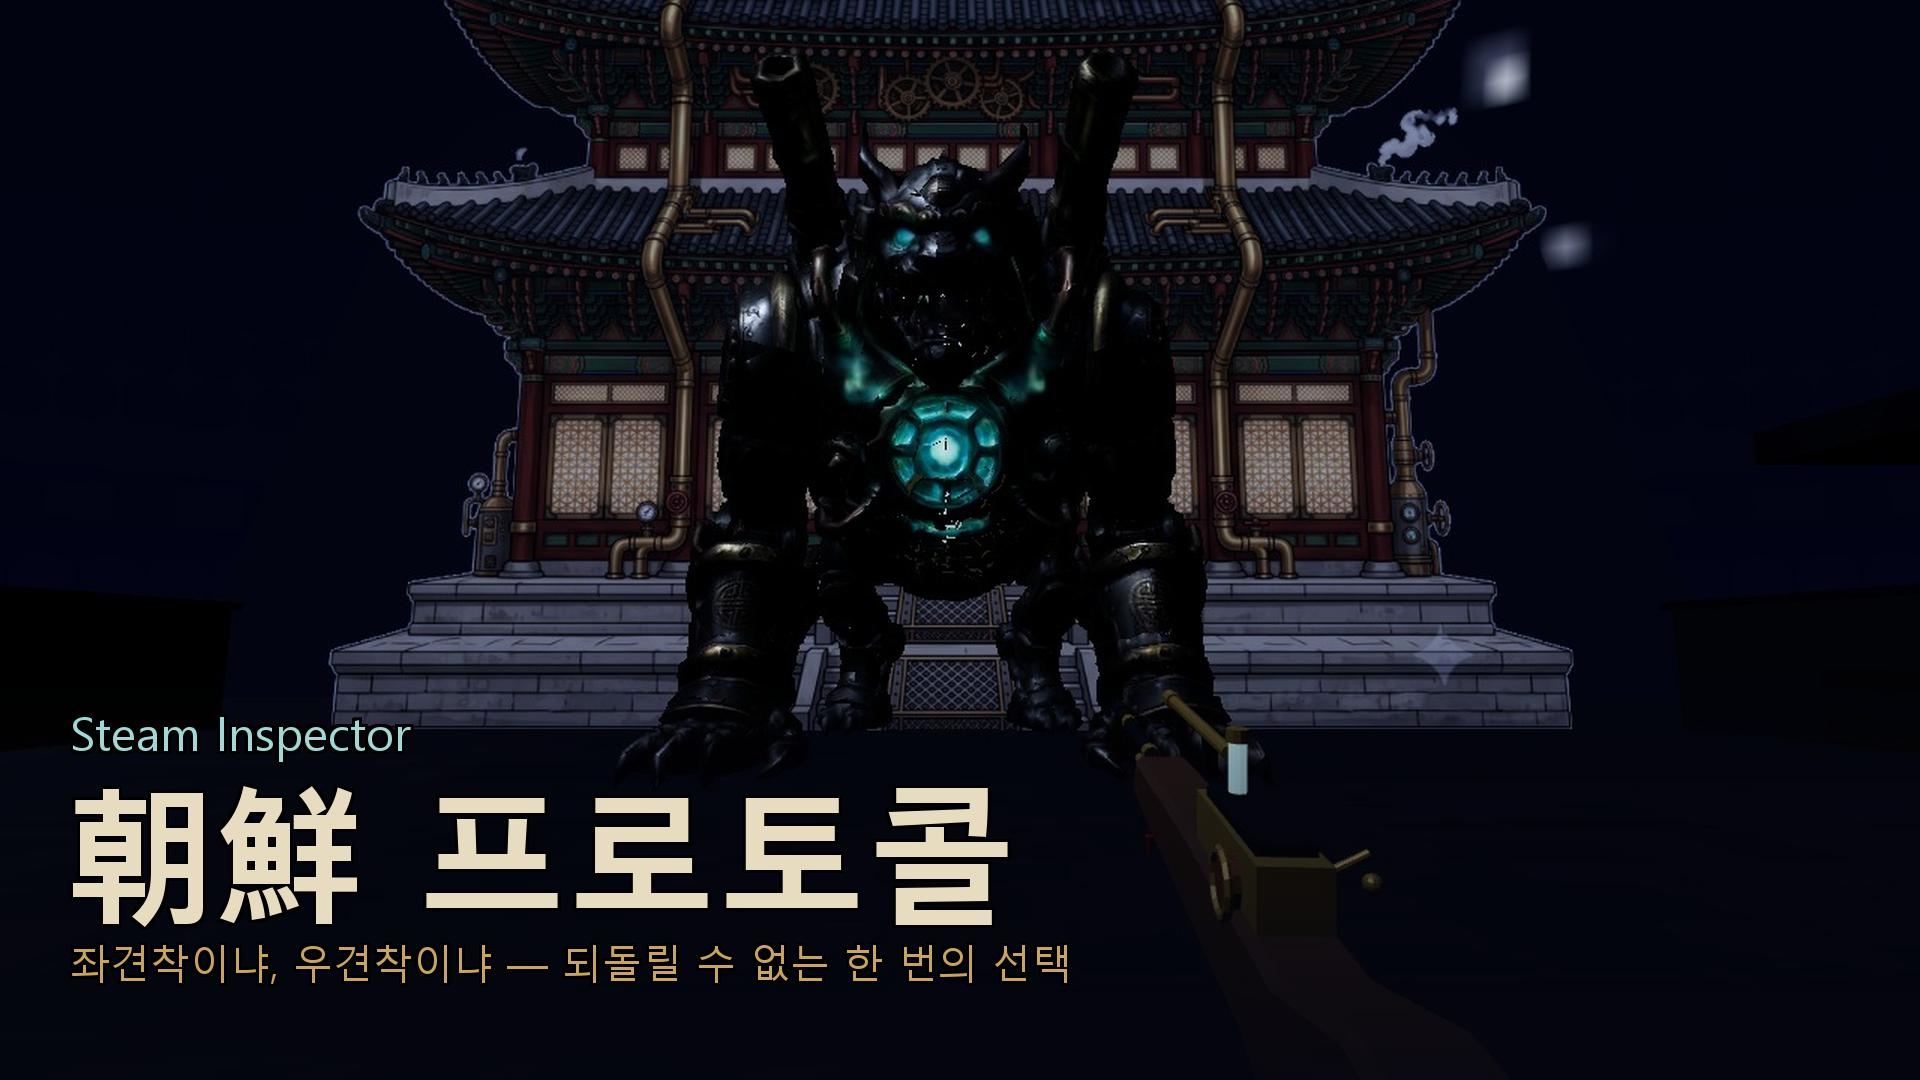
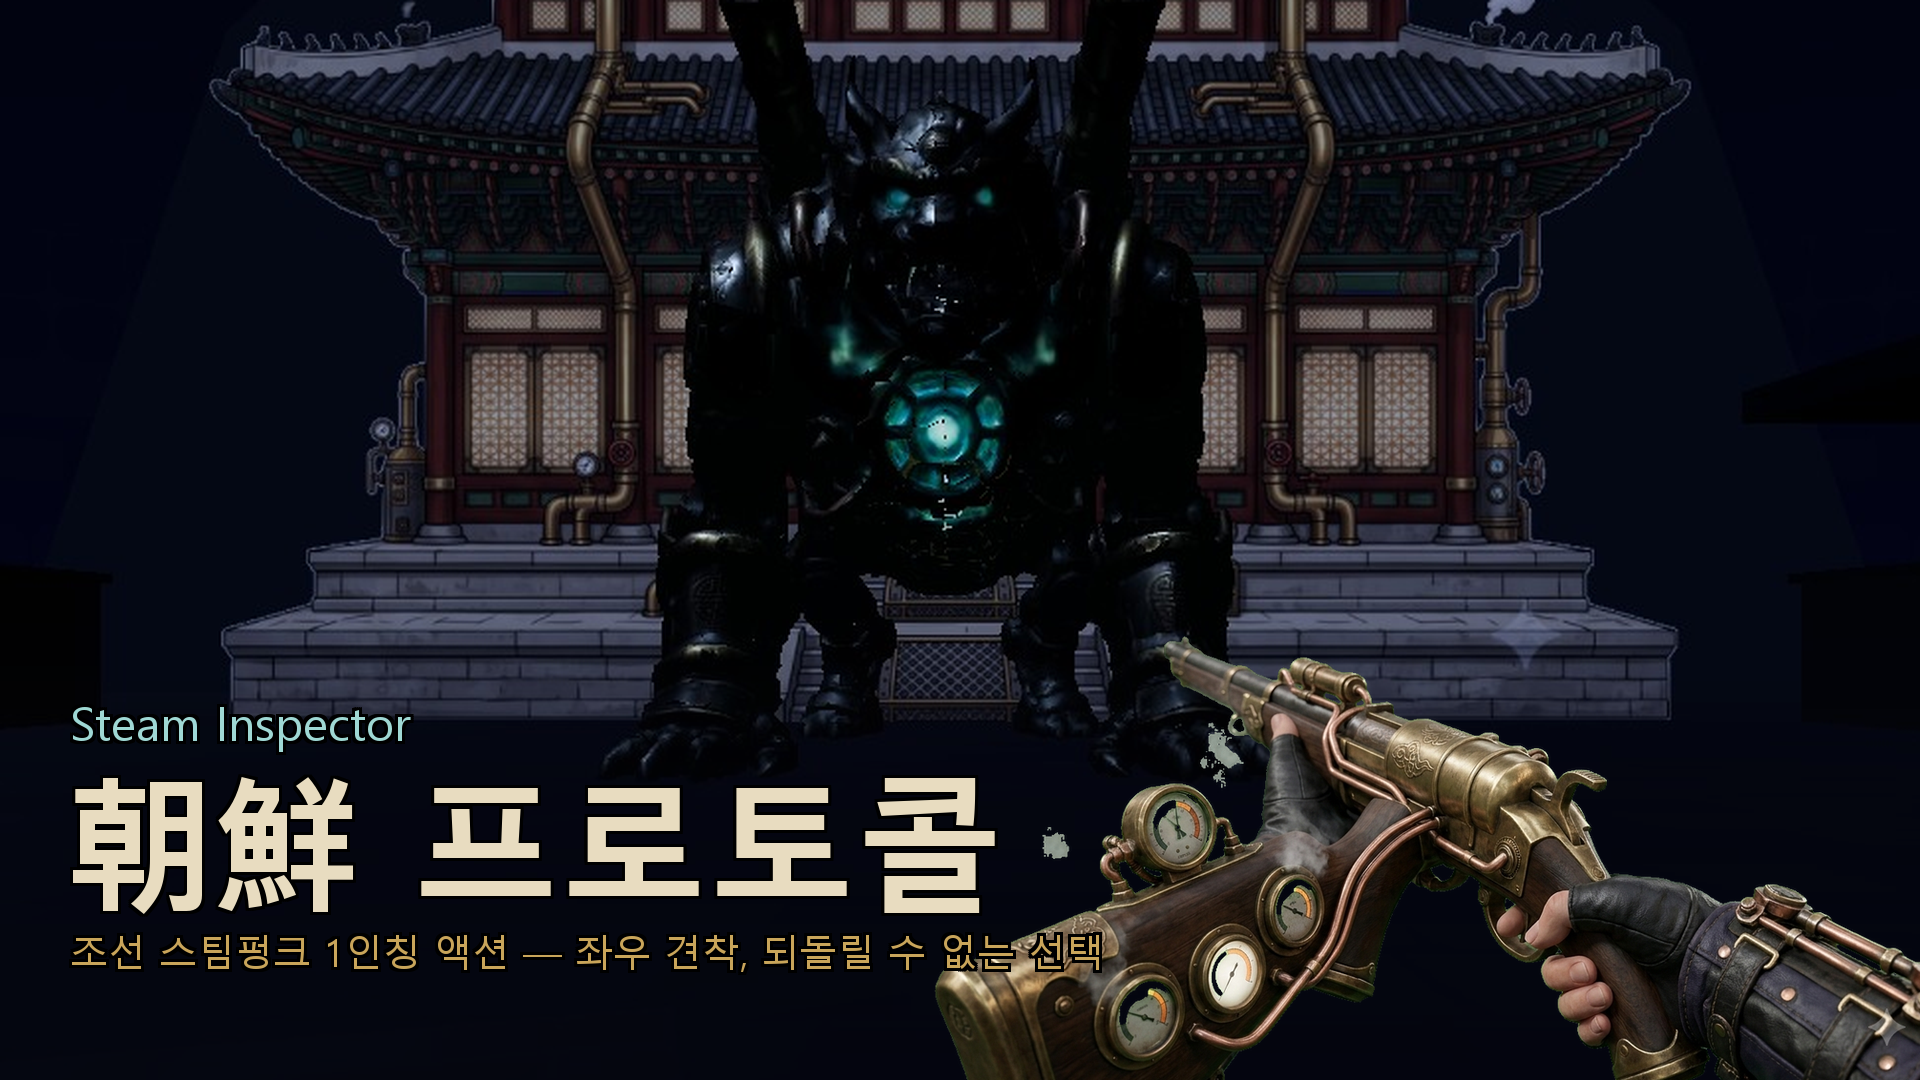
feat: viewmodel look-sway lag (spring-damper, opposite to camera turn); new FPS thumbnail (gobungi + sprite rifle); STEP harness completeness

diff --git a/src/vmsprite.js b/src/vmsprite.js
@@ -18,6 +18,7 @@ let bobPhase = 0;
 let kickY = 0, kickR = 0;
 let override = null;         // { sprite, until, anim } — 단도/수류탄/마패 일시 연출
 let adsT = 0;
+let swayX = 0, swayY = 0, swayVX = 0, swayVY = 0; // 룩-스웨이: 시선 반대로 끌리다 스프링 복귀
 
 export function initVmSprite() {
   wrap = document.getElementById('vmwrap');
@@ -53,6 +54,15 @@ export function updateVmSprite(dt) {
   // ADS 보간
   adsT += ((state.ads ? 1 : 0) - adsT) * Math.min(1, dts * 9);
 
+  // 룩-스웨이 (총이 시선을 한 박자 늦게 따라오는 관성) — 스프링-댐퍼
+  const ldx = state._lookDX || 0, ldy = state._lookDY || 0;
+  state._lookDX = 0; state._lookDY = 0; // 소비 후 리셋 (일시정지 중 잔류 방지)
+  swayVX += (-ldx * 2.2 - swayX * 90 - swayVX * 14) * dts;
+  swayVY += (-ldy * 1.8 - swayY * 90 - swayVY * 14) * dts;
+  swayX = Math.max(-46, Math.min(46, swayX + swayVX * dts * 60));
+  swayY = Math.max(-34, Math.min(34, swayY + swayVY * dts * 60));
+  const swayScale = 1 - adsT * 0.65; // ADS 시 스웨이 억제
+
   // 이동 바브
   if (state.playerMoving) bobPhase += dts * 7.5;
   const bobX = Math.sin(bobPhase) * 9 * (state.playerMoving ? 1 : 0.25) * (1 - adsT * 0.7);
@@ -84,6 +94,6 @@ export function updateVmSprite(dt) {
   const crouchY = state.playerCrouching ? 14 : 0;
 
   img.style.transform =
-    `translate(${bobX + ax + adsX}px, ${bobY + ay + adsY + kickY + crouchY}px) ` +
-    `rotate(${(kickR + ar) * (state.hand === 'L' ? -1 : 1)}deg) scale(${scale + adsT * 0.16})`;
+    `translate(${bobX + ax + adsX + swayX * swayScale}px, ${bobY + ay + adsY + kickY + crouchY + swayY * swayScale}px) ` +
+    `rotate(${(kickR + ar) * (state.hand === 'L' ? -1 : 1) + swayX * swayScale * 0.05}deg) scale(${scale + adsT * 0.16})`;
 }

diff --git a/src/main.js b/src/main.js
@@ -141,9 +141,9 @@ if (params.get('debug') === '1') {
       const dt = 16.7 * (state._timescale || 1);
       if (state.phase === 'play' && !state.paused) {
         if (state._god) state.player.hp = Math.max(state.player.hp, 100);
-        updateRail(dt); updateEnemies(dt); updateFlow(dt); updateCombat(dt); updateWeapons(dt);
+        updateRail(dt); updateEnemies(dt); updateFlow(dt); updateCombat(dt); updateWeapons(dt); updateThrowables(dt);
       }
-      updateVfx(dt); updateUI();
+      updateVfx(dt); updateVmSprite(dt); updateUI();
     }
   };
   import('./enemies.js').then(m => { window.ACTORS = m.getActors; window.EN = () => ({ alive: m.aliveCount() }); });

diff --git a/src/rail.js b/src/rail.js
@@ -82,6 +82,7 @@ export function updateRail(dt) {
   const md = consumeMouseDelta();
   yaw -= md.x * 0.0023 * sens;
   pitch -= md.y * 0.0021 * sens;
+  state._lookDX = md.x; state._lookDY = md.y;   // 뷰모델 룩-스웨이용 (vmsprite)
   pitch = Math.max(-1.35, Math.min(1.35, pitch));
   rig.dolly.rotation.y = yaw;
   rig.camera.rotation.x = pitch;
